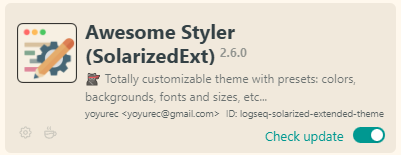
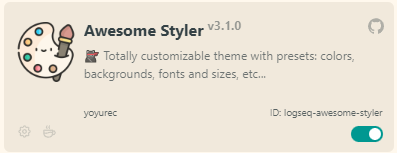
fix(content container): max width & bg

diff --git a/src/css/bg.css b/src/css/bg.css
@@ -1,7 +1,7 @@
 /*
   >>> BEGIN: Backgrounds, shadows
 */
-.cp__sidebar-main-content > .mx-auto {
+.cp__sidebar-main-content > div {
     background-color: var(--ls-primary-background-color);
     box-shadow: var(--awSt-bg-shadow, rgba(0, 0, 0, 0.1) 0 4px 10px 4px);
     border-radius: 10px;
@@ -25,7 +25,7 @@ body:is([data-page='page'], [data-page='home']).is-banner-active #banner {
     border-radius: 10px 10px 0 0;
     box-shadow: var(--awSt-bg-shadow, rgb(0, 0, 0, 0.1) 0 0 10px 4px);
 }
-body:is([data-page='page'], [data-page='home']).is-banner-active .cp__sidebar-main-content > .mx-auto {
+body:is([data-page='page'], [data-page='home']).is-banner-active .cp__sidebar-main-content > div {
     position: relative;
     margin: 0 auto;
     border-radius: 0 0 10px 10px;

diff --git a/src/modules/cssVars/cssVars.ts b/src/modules/cssVars/cssVars.ts
@@ -121,7 +121,7 @@ export const setStylingCSSVars = () => {
     }
 
     // sizes
-    root.style.setProperty('--ls-main-content-max-width', globalContext.pluginConfig.contentMaxWidth);
+    root.style.setProperty('--awSt-content-max-width', globalContext.pluginConfig.contentMaxWidth);
     root.style.setProperty('--ls-main-content-max-width-wide', globalContext.pluginConfig.contentWideMaxWidth);
     root.style.setProperty('--ls-left-sidebar-width', globalContext.pluginConfig.leftSidebarWidth);
     root.style.setProperty('--ls-right-sidebar-width', globalContext.pluginConfig.rightSidebarWidth);

diff --git a/src/css/ui.css b/src/css/ui.css
@@ -47,11 +47,11 @@ body:not(.is-awesomeUI) #main-content-container {
 .cp__sidebar-main-content {
     max-width: unset !important;
 }
-.cp__sidebar-main-content > .mx-auto {
+.cp__sidebar-main-content > div {
     max-width: var(--ls-main-content-max-width);
     padding: 20px 30px;
 }
-.ls-wide-mode .cp__sidebar-main-content > .mx-auto {
+.ls-wide-mode .cp__sidebar-main-content > div {
     max-width: var(--ls-main-content-max-width-wide);
 }
 body:is([data-page='page'], [data-page='home']).is-banner-active #banner {

diff --git a/src/awesomeStyler.css b/src/awesomeStyler.css
@@ -12,7 +12,7 @@
 .dark-theme,
 html[data-theme='light'],
 html[data-theme='dark'] {
-    --ls-main-content-max-width: 1100px;
+    --ls-main-content-max-width: var(--awSt-content-max-width, 1100px);
 
     --awSt-font-fira-sans: 'Fira Sans', sans-serif;
     --awSt-font-aiwriter-quattro: 'iA Writer Quattro', sans-serif;

diff --git a/src/modules/settings/settingsCommon.css b/src/modules/settings/settingsCommon.css
@@ -101,6 +101,7 @@ html[data-theme="dark"] .ui__modal .ui__button:hover {
     box-shadow: 0px 0px 4px var(--ls-link-text-color);
 }
 .settings-modal .form-checkbox {
+    top: 2px;
     margin-right: 6px;
     background-color: var(--ls-link-text-color);
 }

diff --git a/README.md b/README.md
@@ -125,7 +125,7 @@ Logseq is a privacy-first, open-source knowledge base. Visit https://logseq.com 
 * If you have any questions, issues or feature request, use the issue submission on GitHub: https://github.com/yoyurec/logseq-awesome-styler/issues
 
 ## Credits
-* Icon - Keiran O'Leary https://dribbble.com/shots/6361500-Alacritty-Terminal-Icon
+* Icon - https://www.flaticon.com/free-icon/palette_7927110
 * ["iA Writer" fonts](https://ia.net/topics/a-typographic-christmas): Copyright © 2018 Information Architects Inc. with Reserved Font Name "iA Writer". Licensed under the SIL Open Font License 1.1.
 * Theme colors inspiration - Nicholas Martin https://github.com/nmartin84/logseq-solarized
 * Kanban view inspiration - @Cannibalox https://github.com/cannibalox/logtools
